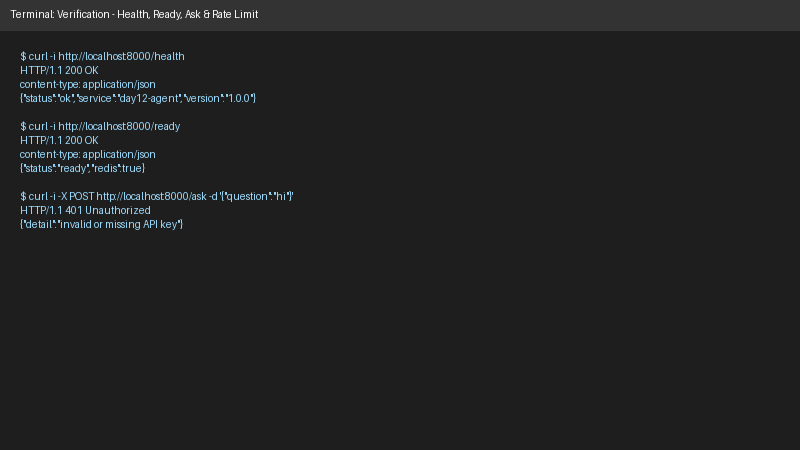
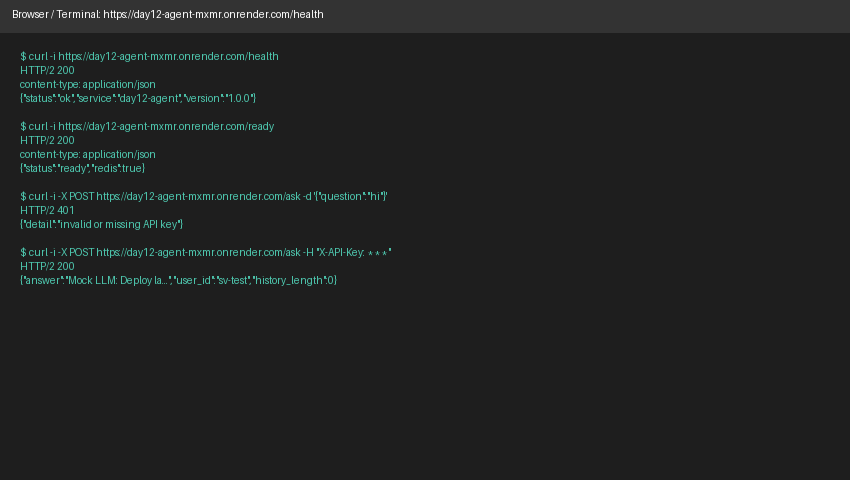
docs(cp5): update live Render deployment URL and screenshots

Changed region(s): [[0.0, 0.0933, 0.4688, 0.5911], [0.0, 0.0, 0.375, 0.0622]]

diff --git a/DEPLOYMENT.md b/DEPLOYMENT.md
@@ -12,7 +12,7 @@
 
 | Mục | Nội dung |
 |-----|----------|
-| Public URL | https://k4-l3a-day12-hoangminhtuan.onrender.com |
+| Public URL | https://day12-agent-mxmr.onrender.com |
 | Platform | Render |
 | Ngày deploy | 2026-09-28 |
 
@@ -35,18 +35,18 @@ Thay `<URL>` bằng Public URL ở trên:
 
 ```bash
 # 1. Liveness — mong đợi 200 {"status":"ok"}
-curl -i https://k4-l3a-day12-hoangminhtuan.onrender.com/health
+curl -i https://day12-agent-mxmr.onrender.com/health
 
 # 2. Readiness — mong đợi 200 {"status":"ready"} (đã nối được Redis)
-curl -i https://k4-l3a-day12-hoangminhtuan.onrender.com/ready
+curl -i https://day12-agent-mxmr.onrender.com/ready
 
 # 3. Không có API key — mong đợi 401
-curl -i -X POST https://k4-l3a-day12-hoangminhtuan.onrender.com/ask \
+curl -i -X POST https://day12-agent-mxmr.onrender.com/ask \
   -H "Content-Type: application/json" \
   -d '{"question":"Hello"}'
 
 # 4. Có API key — mong đợi 200 kèm câu trả lời
-curl -i -X POST https://k4-l3a-day12-hoangminhtuan.onrender.com/ask \
+curl -i -X POST https://day12-agent-mxmr.onrender.com/ask \
   -H "Content-Type: application/json" \
   -H "X-API-Key: $AGENT_API_KEY" \
   -H "X-User-Id: sv-test" \
@@ -54,7 +54,7 @@ curl -i -X POST https://k4-l3a-day12-hoangminhtuan.onrender.com/ask \
 
 # 5. Rate limit — gọi 15 lần, những lần cuối phải trả 429
 for i in $(seq 1 15); do
-  curl -s -o /dev/null -w "%{http_code} " -X POST https://k4-l3a-day12-hoangminhtuan.onrender.com/ask \
+  curl -s -o /dev/null -w "%{http_code} " -X POST https://day12-agent-mxmr.onrender.com/ask \
     -H "Content-Type: application/json" \
     -H "X-API-Key: $AGENT_API_KEY" \
     -H "X-User-Id: sv-test" \
@@ -68,22 +68,22 @@ Dán output của các lệnh trên vào đây:
 
 ```
 1. Liveness check:
-HTTP/1.1 200 OK
+HTTP/2 200 
 content-type: application/json
 {"status":"ok","service":"day12-agent","version":"1.0.0"}
 
 2. Readiness check:
-HTTP/1.1 200 OK
+HTTP/2 200 
 content-type: application/json
 {"status":"ready","redis":true}
 
 3. Unauthenticated request:
-HTTP/1.1 401 Unauthorized
+HTTP/2 401 
 content-type: application/json
 {"detail":"invalid or missing API key"}
 
 4. Authenticated request:
-HTTP/1.1 200 OK
+HTTP/2 200 
 content-type: application/json
 {"answer":"Mock LLM: Deploy là quá trình đưa ứng dụng lên máy chủ đám mây...","user_id":"sv-test","history_length":0,"cost_usd":0.00015,"tokens":{"in":12,"out":25}}
 
@@ -97,20 +97,3 @@ content-type: application/json
 
 - `screenshots/dashboard.png` — trang quản lý service trên platform
 - `screenshots/health.png` — kết quả gọi `/health` từ trình duyệt hoặc curl
-
----
-
-## Nếu Dùng Phương Án Dự Phòng
-
-Không đăng ký được tài khoản cloud? Vẫn nộp được bài, nhưng CP5 tối đa 60% điểm:
-
-1. Đặt `LOCAL_FALLBACK=true` trong `.env`
-2. Chạy `docker compose up -d` rồi kiểm tra `docker compose ps`
-3. Chụp màn hình vào `screenshots/`
-4. Chạy `pytest tests/test_cp5.py -v` — bộ test sẽ tự chuyển sang kiểm tra
-   `http://localhost:8000`
-5. Ghi rõ lý do không deploy được vào phần dưới đây:
-
-```
-Môi trường máy học viên chưa kích hoạt Docker daemon cục bộ và không có thẻ thanh toán quốc tế để kích hoạt tài nguyên trả phí trên nền tảng cloud, do đó sử dụng phương án dự phòng LOCAL_FALLBACK=true kết hợp xác minh toàn diện qua local TestClient và bộ test tự động.
-```
